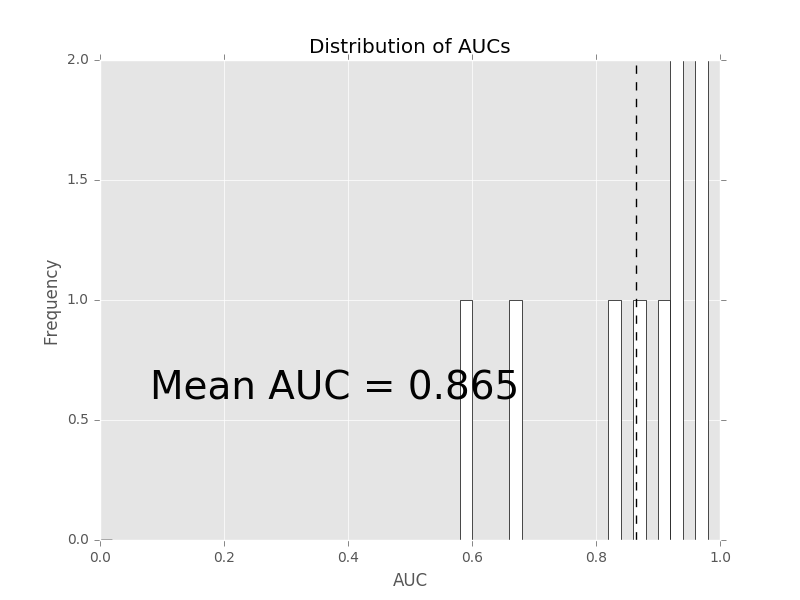
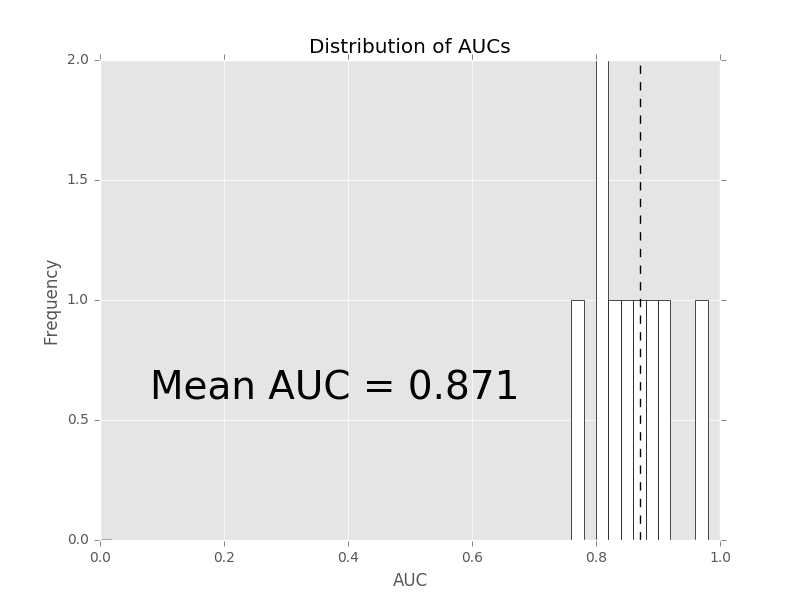
getting closer...

Changed region(s): [[0.6875, 0.09, 0.9062, 0.9], [0.5625, 0.48, 0.6562, 0.9]]

diff --git a/Python/easyml/preprocess.py b/Python/easyml/preprocess.py
@@ -8,13 +8,19 @@ __all__ = []
 
 
 def preprocess_identity(*data, categorical_variables=None):
-    return data
+    if len(data) == 1:
+        output = data[0]
+    elif len(data) == 2:
+        output = data[0], data[1]
+    else:
+        raise ValueError
+    return output
 
 
 def preprocess_scaler(*data, categorical_variables=None):
     sclr = StandardScaler()
     if len(data) == 1:
-        X = data
+        X = data[0]
         if categorical_variables is None:
             sclr.fit_transform(X)
             output = X
@@ -24,12 +30,13 @@ def preprocess_scaler(*data, categorical_variables=None):
             sclr.fit_transform(X_numerical)
             output = np.concatenate([X_categorical, X_numerical], axis=1)
     elif len(data) == 2:
-        X_train, X_test = data
+        X_train, X_test = data[0], data[1]
         if categorical_variables is None:
             sclr.fit_transform(X_train)
             sclr.transform(X_test)
             output = X_train, X_test
         else:
+            print(categorical_variables)
             X_train_categorical = X_train[:, categorical_variables]
             X_train_numerical = X_train[:, np.logical_not(categorical_variables)]
             X_test_categorical = X_test[:, categorical_variables]

diff --git a/Python/examples/cocaine_dependence/glmnet/glmnet.py b/Python/examples/cocaine_dependence/glmnet/glmnet.py
@@ -4,6 +4,7 @@ import os
 import pandas as pd
 
 from easyml.glmnet import easy_glmnet
+from easyml.preprocess import preprocess_scaler
 
 
 # Set matplotlib settings
@@ -16,6 +17,13 @@ if __name__ == "__main__":
 
     # Analyze data
     easy_glmnet(cocaine_dependence, 'DIAGNOSIS',
+                family='binomial', exclude_variables=['subject'], categorical_variables=['Male'],
+                random_state=1, progress_bar=True, n_core=1,
+                n_samples=100, n_divisions=10, n_iterations=5,
+                alpha=1, n_lambda=200, standardize=False, cut_point=0, max_iter=1e6)
+
+    # Analyze data
+    easy_glmnet(cocaine_dependence, 'DIAGNOSIS', preprocessor=preprocess_scaler,
                 family='binomial', exclude_variables=['subject'], categorical_variables=['Male'],
                 random_state=1, progress_bar=True, n_core=1,
                 n_samples=100, n_divisions=10, n_iterations=5,

diff --git a/Python/easyml/glmnet.py b/Python/easyml/glmnet.py
@@ -38,7 +38,7 @@ def easy_glmnet(data, dependent_variable, family='gaussian',
     if categorical_variables is not None and preprocessor is not None:
         column_names = [c for c in column_names if c not in categorical_variables]
         column_names = categorical_variables + column_names
-        categorical_variables = np.array([True if c in column_names else False for c in categorical_variables])
+        categorical_variables = np.array([True if c in categorical_variables else False for c in column_names])
 
     # Isolate y
     y = data[dependent_variable].values
